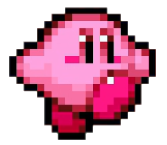
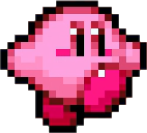
修改移動

diff --git a/kirby.cpp b/kirby.cpp
@@ -281,7 +281,7 @@ void Kirby::updateAnimation() {
 // ============ 根據狀態更新顯示的 Sprite ============
 void Kirby::updateSprite() {
     QPixmap current;
-
+    int oldHeight = pixmap().height();
     // 根據能力狀態選擇 sprite set
     if (ability == ABILITY_FIRE) {
         // === Fire Ability Sprites ===
@@ -341,6 +341,10 @@ void Kirby::updateSprite() {
     }
 
     setPixmap(current);
+    int newHeight = pixmap().height();
+    if (oldHeight > 0 && newHeight != oldHeight) {
+        setY(y() + (oldHeight - newHeight));
+    }
 }
 
 // ============ 吸入 ============
